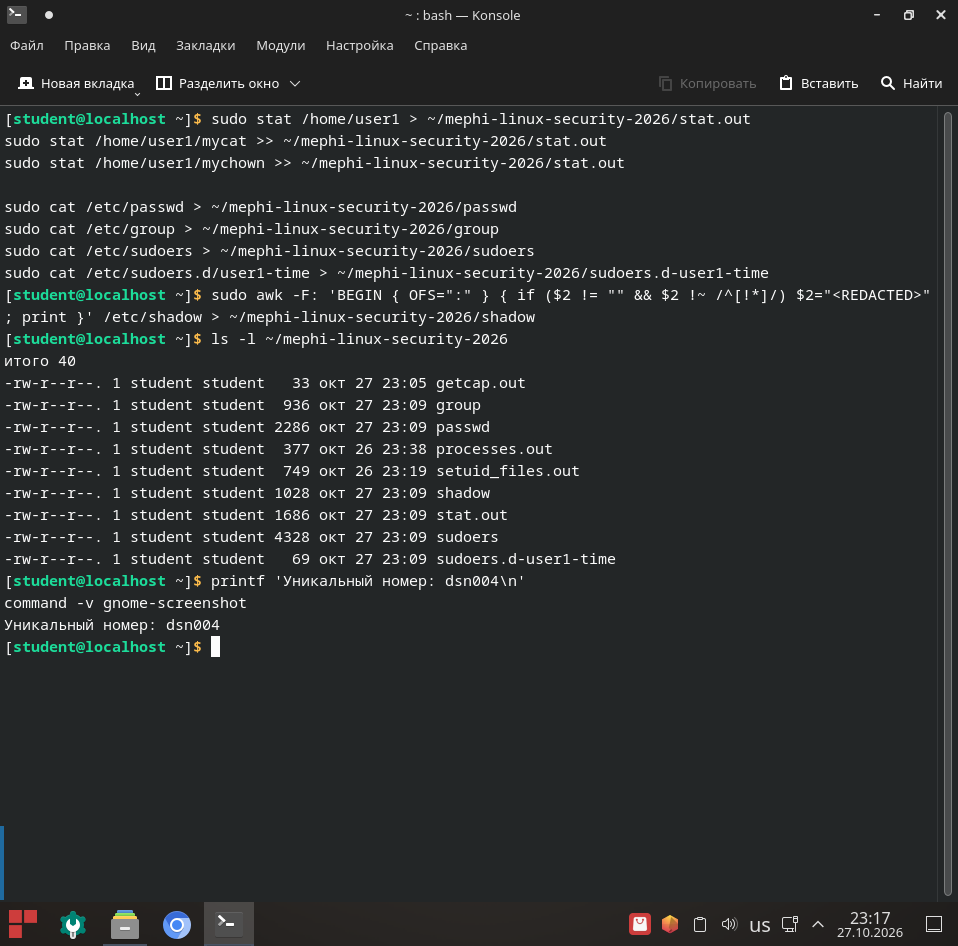
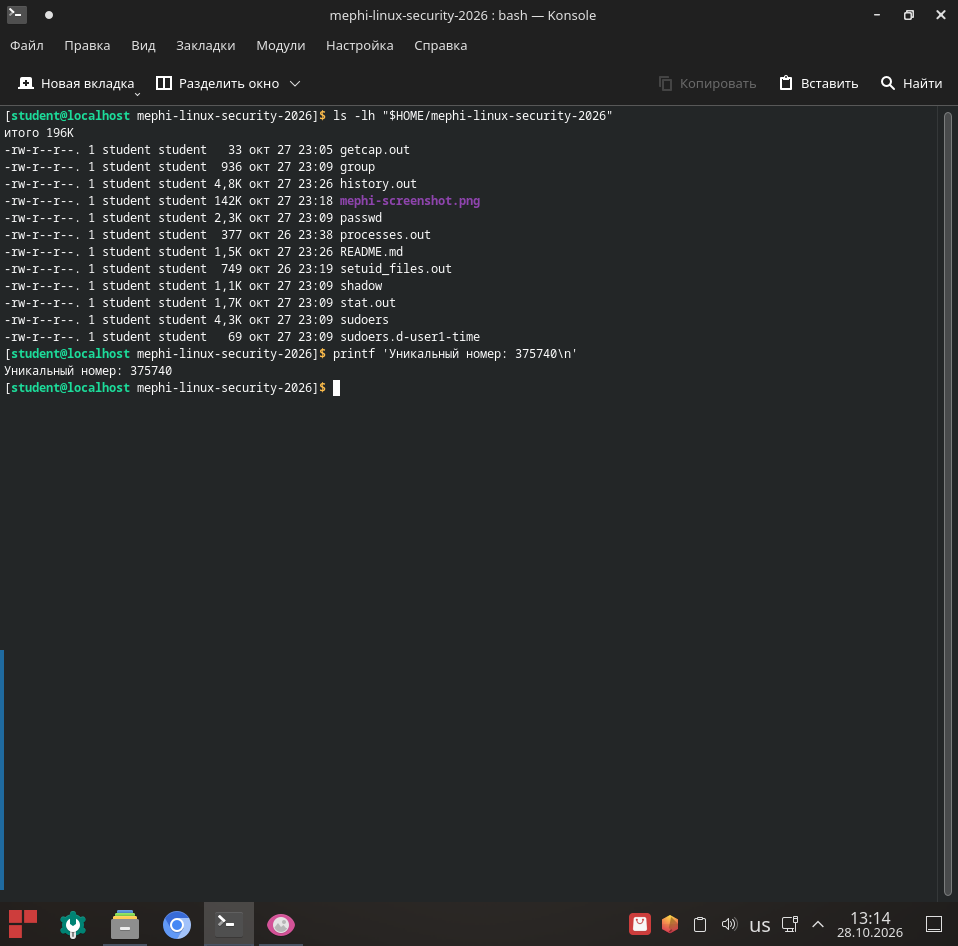
fixed student num

diff --git a/README.md b/README.md
@@ -9,6 +9,6 @@
 | 3. setuid | Для `/home/user1/mycat` установлены владелец `root:root` и права `4755`; чтение `/etc/shadow` проверено от имени `user1` | `stat.out`, `history.out` |
 | 4. Capabilities | Для `/home/user1/mychown` установлена `cap_chown=ep`; проверена смена владельца файла | `getcap.out`, `stat.out` |
 | 5. sudo | В `/etc/sudoers.d/user1-time` разрешены команды для изменения системного времени; конфигурация проверена `visudo` и `sudo -l` | `sudoers`, `sudoers.d-user1-time` |
-| 6. Визуальное подтверждение | На скриншоте показан уникальный номер `dsn004` | `mephi-screenshot.png` |
+| 6. Визуальное подтверждение | На скриншоте показан уникальный номер `375740` | `mephi-screenshot.png` |
 
 Хеши паролей в файле `shadow` замаскированы перед публикацией в публичном репозитории.
